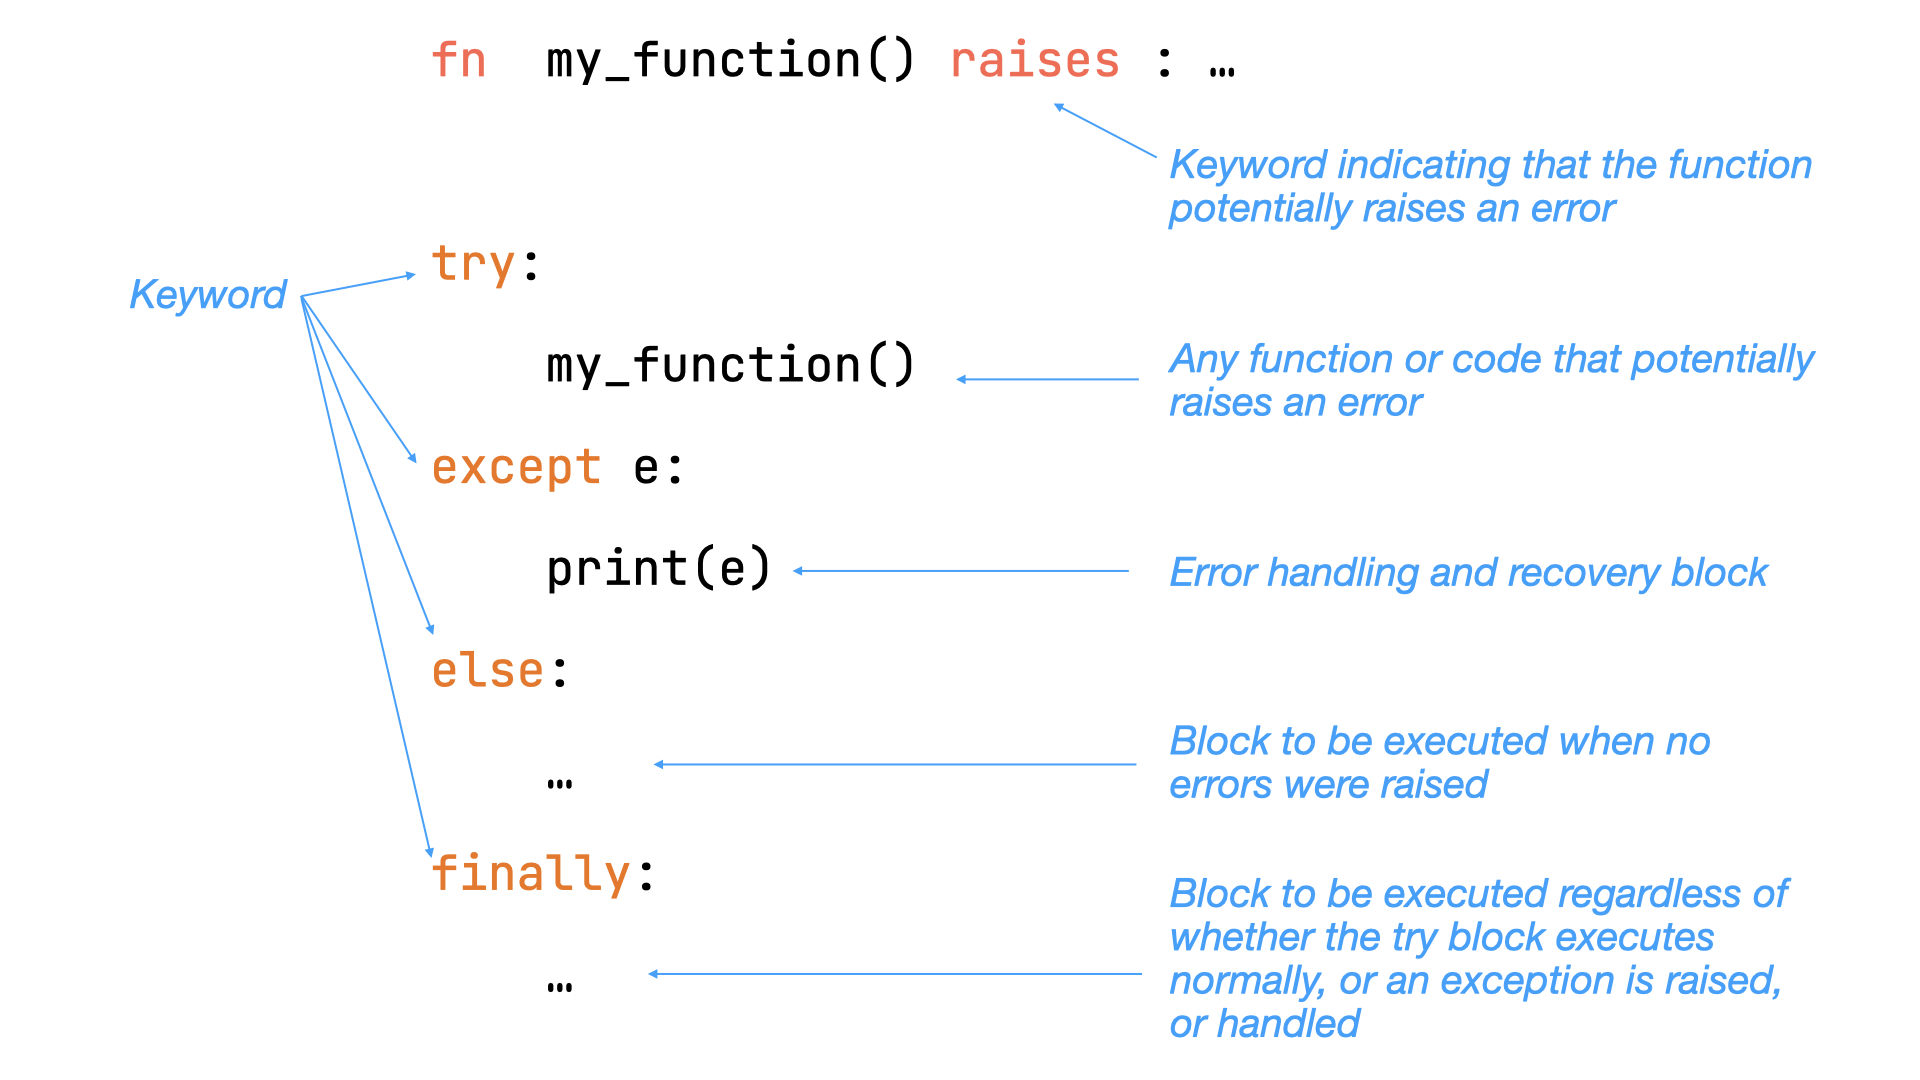
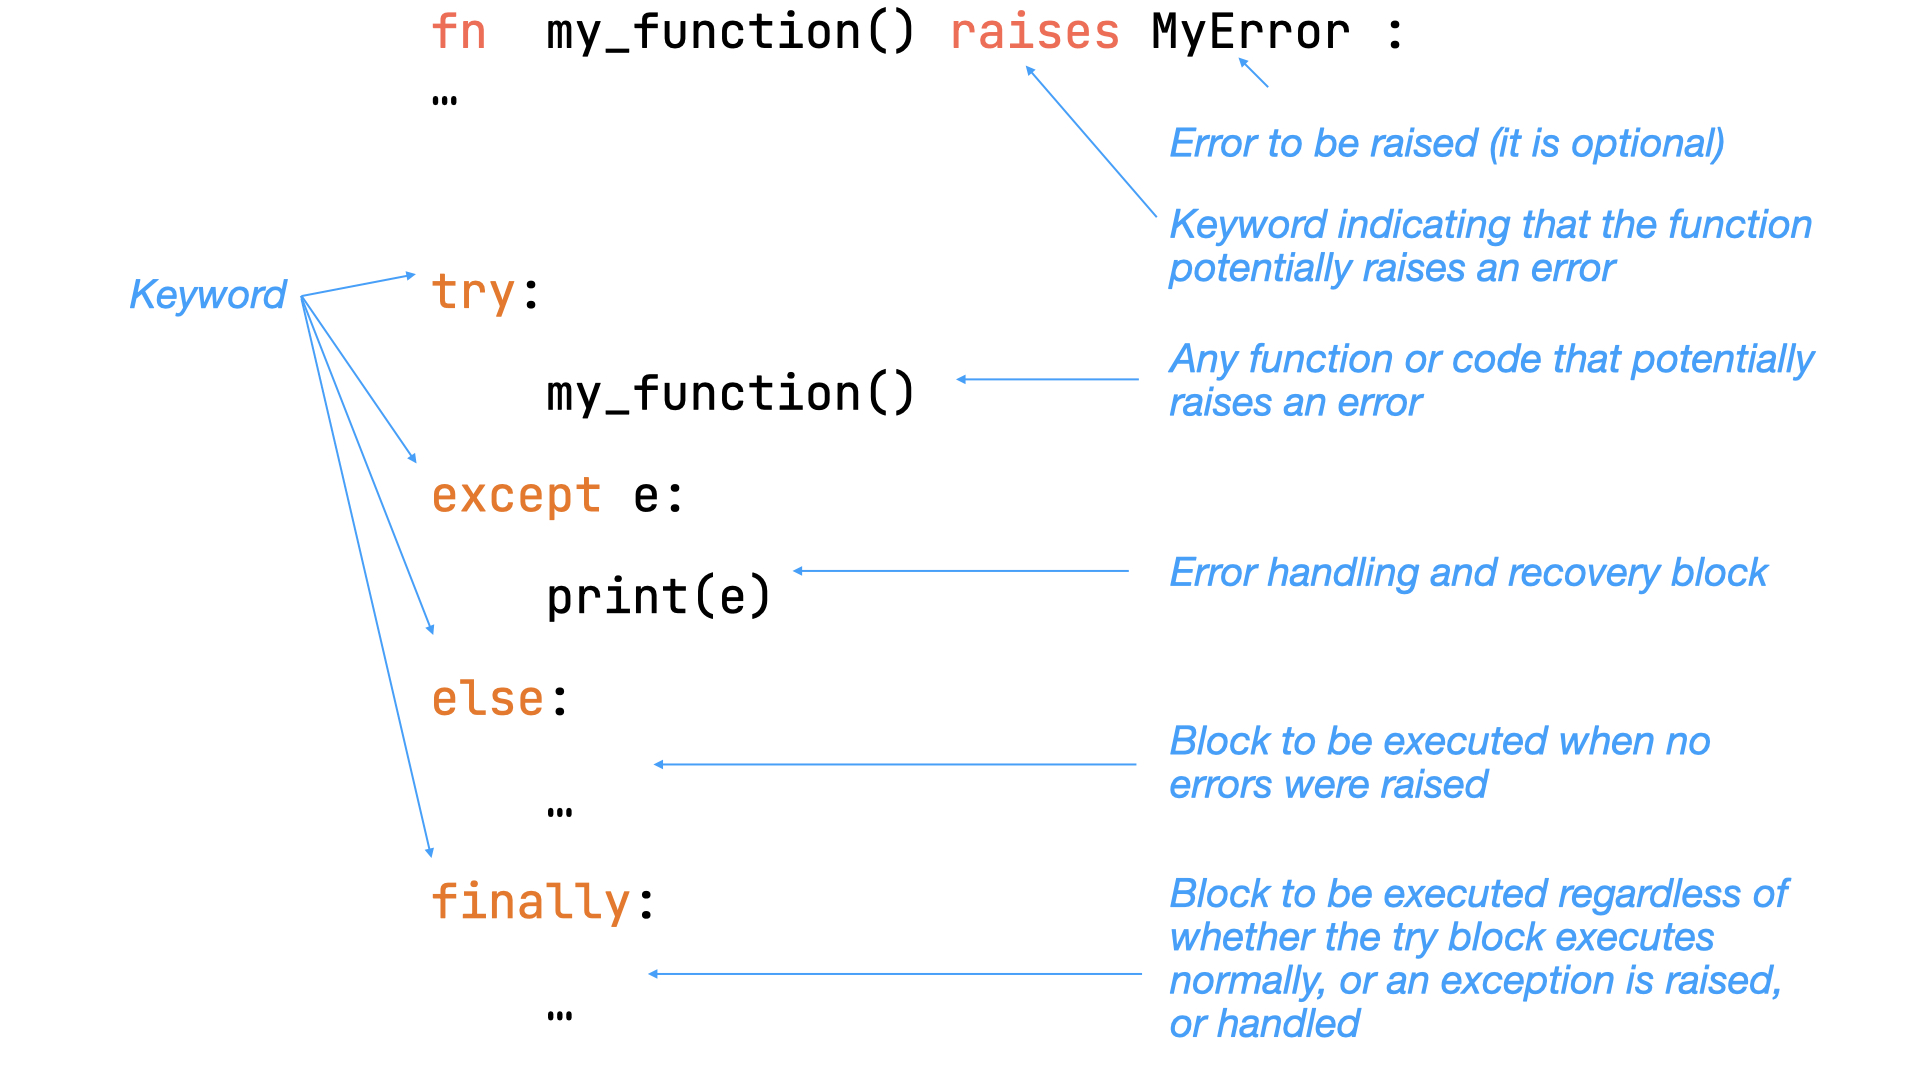
Custom errors, linear types

diff --git a/mojo/_ownership_and_lifecycle.html b/mojo/_ownership_and_lifecycle.html
@@ -2181,6 +2181,8 @@ pre.rouge .gs {
 </li>
 <li><a href="_ownership_and_lifecycle.html#_origin">13.10. Origin</a>
 </li>
+<li><a href="_ownership_and_lifecycle.html#_linear_types">13.11. Linear types</a>
+</li>
 </ul>
 </li>
 <li><a href="_memory_management_references_and_pointers.html">14. Memory management, references and pointers</a>
@@ -2572,7 +2574,92 @@ pre.rouge .gs {
 </div>
 </div>
 <div class="paragraph">
+<p>Here we are taking a parameter that is of type <code>MutOrigin</code>. This parameter is then used in <code>ref</code> which represents a reference. Together the <code>ref[o]</code> syntax indicates that we are passing a reference with origin <code>o</code>. Since <code>o</code> is of type <code>MutOrigin</code>, we are allowed to modify the value within the function. You will learn the <code>ref</code> syntax in a later chapter.</p>
+</div>
+<div class="paragraph">
 <p>Note: Mojo allows a short-hand syntax <code>mut</code> for mutable references in function arguments.</p>
+</div>
+<div class="sect3">
+<h4 id="_origin_of">13.10.1. <code>origin_of</code></h4>
+<div class="paragraph">
+<p>In some cases, we may want to explicitely get the origin of a value. This can be done using the <code>origin_of</code> function. For example, we may want to share a pointer to a value, and to ensure that the pointer always points to a valid value, we need to align the origin of the pointer with the origin of the value.</p>
+</div>
+<div class="listingblock">
+<div class="content">
+<pre class="rouge highlight"><code data-lang="mojo"><span class="k">struct</span> <span class="nc">B</span><span class="p">(</span><span class="n">ImplicitlyCopyable</span><span class="p">):</span>
+  <span class="k">fn</span> <span class="nf">__init__</span><span class="p">(</span><span class="k">out</span> <span class="k">self</span><span class="p">):</span>
+    <span class="k">pass</span>
+
+<span class="k">struct</span> <span class="n">A</span><span class="p">:</span>
+  <span class="k">var</span> <span class="n">value</span><span class="p">:</span> <span class="n">B</span>
+
+  <span class="k">fn</span> <span class="nf">__init__</span><span class="p">(</span><span class="k">out</span> <span class="k">self</span><span class="p">,</span> <span class="n">value</span><span class="p">:</span> <span class="n">B</span><span class="p">):</span>
+    <span class="k">self</span><span class="p">.</span><span class="n">value</span> <span class="o">=</span> <span class="n">value</span>
+
+  <span class="k">fn</span> <span class="nf">get_pointer</span><span class="p">(</span><span class="k">self</span><span class="p">)</span> <span class="o">-&gt;</span> <span class="n">Pointer</span><span class="p">[</span><span class="n">B</span><span class="p">,</span> <span class="nf">origin_of</span><span class="p">(</span><span class="k">self</span><span class="p">.</span><span class="n">value</span><span class="p">)]:</span>
+    <span class="k">return</span> <span class="nc">Pointer</span><span class="p">(</span><span class="n">to</span><span class="o">=</span><span class="k">self</span><span class="p">.</span><span class="n">value</span><span class="p">)</span></code></pre>
+</div>
+</div>
+<div class="paragraph">
+<p>Usage:</p>
+</div>
+<div class="listingblock">
+<div class="content">
+<pre class="rouge highlight"><code data-lang="mojo">    <span class="n">b</span><span class="p">:</span> <span class="n">B</span> <span class="o">=</span> <span class="nc">B</span><span class="p">()</span>
+    <span class="n">a</span><span class="p">:</span> <span class="n">A</span> <span class="o">=</span> <span class="nc">A</span><span class="p">(</span><span class="n">b</span><span class="p">)</span>
+    <span class="n">_</span> <span class="o">=</span> <span class="n">a</span><span class="p">.</span><span class="nf">get_pointer</span><span class="p">()</span></code></pre>
+</div>
+</div>
+<div class="paragraph">
+<p>In the above code listing, we have a struct <code>A</code> that holds a value of type <code>B</code>. In the <code>get_pointer</code> method, we are returning a pointer to the value held within the struct. In order to ensure that the pointer is valid as long as the value is valid, we are using the <code>origin_of</code> function to get the origin of the value and passing it to the <code>Pointer</code> type. This ensures that the pointer&#8217;s origin is aligned with the value&#8217;s origin. Without using the <code>origin_of</code>, the compiler cannot automatically infer the correct origin and will raise a compile-time error.</p>
+</div>
+</div>
+</div>
+<div class="sect2">
+<h3 id="_linear_types">13.11. Linear types</h3>
+<div class="paragraph">
+<p>In Mojo, when we define a struct and we do not provide a <code>__del__</code> method, then the compiler creates the destructor automatically for us. Most of the time this is the desired behavior. However, there are cases where we want to have more control over the lifecycle of a struct. For example, we may want to ensure that a struct is used only once and then destroyed. This is where linear types come into play.</p>
+</div>
+<div class="paragraph">
+<p>A linear type is a type that can be used only once. This means that once a value of a linear type is used, it cannot be used again. This is useful for ensuring that resources are not leaked and are properly released when they are no longer needed. This means a linear type cannot be copied or moved. The destruction of a linear type must be explicit and not just because it goes out-of-scope.</p>
+</div>
+<div class="paragraph">
+<p>In Mojo, copy and move are already explicitely opted-in. You can additionally place <code>@explicit_destroy</code> decorator to a struct to make it a linear type.</p>
+</div>
+<div class="listingblock">
+<div class="content">
+<pre class="rouge highlight"><code data-lang="mojo"><span class="nd">@explicit_destroy</span>
+<span class="k">struct</span> <span class="n">Linear</span><span class="p">:</span>
+  <span class="k">var</span> <span class="n">value</span><span class="p">:</span> <span class="n">Int</span>
+
+  <span class="k">fn</span> <span class="nf">__init__</span><span class="p">(</span><span class="k">out</span> <span class="k">self</span><span class="p">,</span> <span class="n">value</span><span class="p">:</span> <span class="n">Int</span><span class="p">):</span>
+    <span class="k">self</span><span class="p">.</span><span class="n">value</span> <span class="o">=</span> <span class="n">value</span>
+  
+  <span class="k">fn</span> <span class="nf">destroy_me</span><span class="p">(</span><span class="k">deinit</span> <span class="k">self</span><span class="p">):</span>
+    <span class="nf">print</span><span class="p">(</span><span class="sh">"</span><span class="s">Destroying Linear with value: </span><span class="sh">"</span><span class="p">,</span> <span class="k">self</span><span class="p">.</span><span class="n">value</span><span class="p">)</span>
+
+<span class="k">fn</span> <span class="nf">my_function</span><span class="p">(</span><span class="n">a</span><span class="p">:</span> <span class="n">Linear</span><span class="p">):</span>
+  <span class="k">pass</span></code></pre>
+</div>
+</div>
+<div class="paragraph">
+<p>Usage:</p>
+</div>
+<div class="listingblock">
+<div class="content">
+<pre class="rouge highlight"><code data-lang="mojo">    <span class="n">l</span><span class="p">:</span> <span class="n">Linear</span> <span class="o">=</span> <span class="nc">Linear</span><span class="p">(</span><span class="mi">10</span><span class="p">)</span>
+    <span class="nf">my_function</span><span class="p">(</span><span class="n">l</span><span class="p">)</span>
+    <span class="n">l</span><span class="o">^</span><span class="p">.</span><span class="nf">destroy_me</span><span class="p">()</span>  <span class="c1"># Commenting this out will result in a compile-time error</span></code></pre>
+</div>
+</div>
+<div class="paragraph">
+<p>In the above example, we have defined a struct <code>Linear</code> that is marked with the <code>@explicit_destroy</code> decorator. This indicates that the struct is a linear type. In the <code>main</code> function, we create an instance of the <code>Linear</code> struct and pass it to the <code>my_function</code>. After using the linear type, we explicitly call the <code>destroy_me</code> method to destroy the linear type. If we do not call the <code>destroy_me</code> method, the compiler will raise a compile-time error indicating that the linear type has not been destroyed. Since we do not implement <code>Moveable</code> or <code>ImplicitlyCopyable</code> traits for the <code>Linear</code> struct, the compiler will not allow any copy or move operations on it. This ensures that the linear type is used only once and is properly destroyed when no longer needed.</p>
+</div>
+<div class="paragraph">
+<p>Note that when we either let Mojo create the destructor automatically or we provide our own destructor using <code>__del__</code>, the struct is assumed automatically to implement <code>ImplicitlyDestructible</code> trait. By marking the struct with <code>@explicit_destroy</code>, we are indicating that the struct does not implement <code>ImplicitlyDestructible</code> trait, and hence the destruction must be explicit.</p>
+</div>
+<div class="paragraph">
+<p>Linear types are useful for managing resources that need to be used in a controlled manner, such as file handles, network connections, or other system resources. By using linear types, we can ensure that these resources are properly released when they are no longer needed, preventing resource leaks and ensuring the stability of our applications. It allows for compiler enforced resource management, reducing the chances of runtime errors related to resource handling.</p>
 </div>
 </div>
 </div>

diff --git a/mojo/_parameters_and_compile_time_programming.html b/mojo/_parameters_and_compile_time_programming.html
@@ -2183,6 +2183,8 @@ pre.rouge .gs {
 </li>
 <li><a href="_parameters_and_compile_time_programming.html#_custom_compile_time_checks">12.12. Custom compile-time checks</a>
 </li>
+<li><a href="_parameters_and_compile_time_programming.html#_parameterized_errors">12.13. Parameterized errors</a>
+</li>
 </ul>
 </li>
 <li><a href="_ownership_and_lifecycle.html">13. Ownership and lifecycle</a>
@@ -2684,6 +2686,47 @@ For example, <code>mojo -D add_it=True filename.mojo</code>.</p>
 </div>
 <div class="paragraph">
 <p>You can think of <code>constrained</code> as a more flexible version of <code>where</code> clauses, when the constraints cannot be expressed easily using <code>where</code> clauses.</p>
+</div>
+</div>
+<div class="sect2">
+<h3 id="_parameterized_errors">12.13. Parameterized errors</h3>
+<div class="paragraph">
+<p>Mojo allows us to define parameterized errors. This is useful when we want to abstract away the type of error that could be raised, and let the caller decide on what error type to use.</p>
+</div>
+<div class="listingblock">
+<div class="content">
+<pre class="rouge highlight"><code data-lang="mojo"><span class="k">trait</span> <span class="nc">ErrorTrait</span><span class="p">(</span><span class="n">Writable</span><span class="p">):</span>
+    <span class="k">fn</span> <span class="nf">__init__</span><span class="p">(</span><span class="k">out</span> <span class="k">self</span><span class="p">,</span> <span class="n">message</span><span class="p">:</span> <span class="n">String</span><span class="p">):</span> <span class="bp">...</span>
+
+<span class="k">struct</span> <span class="nc">MyError</span><span class="p">(</span><span class="n">ErrorTrait</span><span class="p">):</span> 
+    <span class="k">var</span> <span class="n">message</span><span class="p">:</span> <span class="n">String</span>
+
+    <span class="k">fn</span> <span class="nf">__init__</span><span class="p">(</span><span class="k">out</span> <span class="k">self</span><span class="p">,</span> <span class="n">message</span><span class="p">:</span> <span class="n">String</span><span class="p">):</span>
+        <span class="k">self</span><span class="p">.</span><span class="n">message</span> <span class="o">=</span> <span class="n">message</span>
+
+<span class="k">fn</span> <span class="n">raise_error</span><span class="p">[</span><span class="n">ErrorType</span><span class="p">:</span> <span class="n">ErrorTrait</span><span class="p">](</span><span class="n">cond</span><span class="p">:</span> <span class="n">Bool</span><span class="p">)</span> <span class="k">raises</span> <span class="n">ErrorType</span><span class="p">:</span>
+    <span class="k">if</span> <span class="n">cond</span><span class="p">:</span>
+        <span class="k">raise</span> <span class="nc">ErrorType</span><span class="p">(</span><span class="sh">"</span><span class="s">Provided condition is True</span><span class="sh">"</span><span class="p">)</span>
+    <span class="k">else</span><span class="p">:</span>
+        <span class="nf">print</span><span class="p">(</span><span class="sh">"</span><span class="s">No error</span><span class="sh">"</span><span class="p">)</span></code></pre>
+</div>
+</div>
+<div class="paragraph">
+<p>Usage:</p>
+</div>
+<div class="listingblock">
+<div class="content">
+<pre class="rouge highlight"><code data-lang="mojo">    <span class="k">try</span><span class="p">:</span>
+        <span class="n">raise_error</span><span class="p">[</span><span class="n">MyError</span><span class="p">](</span><span class="bp">True</span><span class="p">)</span>
+    <span class="k">except</span> <span class="n">e</span><span class="p">:</span>
+        <span class="nf">print</span><span class="p">(</span><span class="sh">"</span><span class="s">Error raised:</span><span class="sh">"</span><span class="p">,</span> <span class="n">e</span><span class="p">)</span></code></pre>
+</div>
+</div>
+<div class="paragraph">
+<p>In the above example, we defined a custom Trait that represents an error. It requires an <code><em>init</em></code> method that takes a <code>String</code> message. The function <code>raise_error</code> takes a parameter <code>ErrorType</code> that is constrained to be a type that implements the <code>ErrorTrait</code>. Inside the function, we raise an instance of the parameterized type as error. At the function call site, we specify which concrete error type to use, in this case a struct <code>MyError</code> that implements the <code>ErrorTrait</code>.</p>
+</div>
+<div class="paragraph">
+<p>We have basically allowed the caller to determine what error type to use, as long as it conforms to the <code>ErrorTrait</code>. This is quite useful when we want to write generic libraries that can be used in different contexts with different error types.</p>
 </div>
 </div>
 </div>

diff --git a/mojo/_error_handling.html b/mojo/_error_handling.html
@@ -2161,6 +2161,8 @@ pre.rouge .gs {
 </li>
 <li><a href="_error_handling.html#_else">10.3. Else</a>
 </li>
+<li><a href="_error_handling.html#_custom_errors">10.4. Custom Errors</a>
+</li>
 </ul>
 </li>
 <li><a href="_operators_and_special_methods.html">11. Operators and special methods</a>
@@ -2301,6 +2303,44 @@ block appears after <code>except</code>, but before <code>finally</code>. The <c
     <span class="k">else</span><span class="p">:</span>
         <span class="nf">print</span><span class="p">(</span><span class="sh">"</span><span class="s">No exception raised.</span><span class="sh">"</span><span class="p">)</span></code></pre>
 </div>
+</div>
+</div>
+<div class="sect2">
+<h3 id="_custom_errors">10.4. Custom Errors</h3>
+<div class="paragraph">
+<p>Quite often the standard <code>Error</code> type is not sufficient to represent the various error conditions that an application may encounter. In such cases, we can define our own custom error types.</p>
+</div>
+<div class="listingblock">
+<div class="content">
+<pre class="rouge highlight"><code data-lang="mojo"><span class="k">struct</span> <span class="nc">MyError</span><span class="p">(</span><span class="n">Writable</span><span class="p">):</span> 
+    <span class="k">var</span> <span class="n">message</span><span class="p">:</span> <span class="n">String</span>
+
+    <span class="k">fn</span> <span class="nf">__init__</span><span class="p">(</span><span class="k">out</span> <span class="k">self</span><span class="p">,</span> <span class="n">message</span><span class="p">:</span> <span class="n">String</span><span class="p">):</span>
+        <span class="k">self</span><span class="p">.</span><span class="n">message</span> <span class="o">=</span> <span class="n">message</span>
+
+<span class="k">fn</span> <span class="nf">raise_custom_error</span><span class="p">(</span><span class="n">cond</span><span class="p">:</span> <span class="n">Bool</span><span class="p">)</span> <span class="k">raises</span> <span class="n">MyError</span><span class="p">:</span>
+    <span class="k">if</span> <span class="n">cond</span><span class="p">:</span>
+        <span class="k">raise</span> <span class="nc">MyError</span><span class="p">(</span><span class="sh">"</span><span class="s">Provided condition is True</span><span class="sh">"</span><span class="p">)</span> 
+    <span class="k">else</span><span class="p">:</span>
+        <span class="nf">print</span><span class="p">(</span><span class="sh">"</span><span class="s">No error</span><span class="sh">"</span><span class="p">)</span></code></pre>
+</div>
+</div>
+<div class="paragraph">
+<p>Usage:</p>
+</div>
+<div class="listingblock">
+<div class="content">
+<pre class="rouge highlight"><code data-lang="mojo">    <span class="k">try</span><span class="p">:</span>
+        <span class="nf">raise_custom_error</span><span class="p">(</span><span class="bp">True</span><span class="p">)</span>
+    <span class="k">except</span> <span class="n">e</span><span class="p">:</span>
+        <span class="nf">print</span><span class="p">(</span><span class="sh">"</span><span class="s">Error raised:</span><span class="sh">"</span><span class="p">,</span> <span class="n">e</span><span class="p">)</span></code></pre>
+</div>
+</div>
+<div class="paragraph">
+<p>In the example, we define a custom error type <code>MyError</code>. The <code>raise_custom_error</code> function raises this custom error. In the <code>main</code> function, we handle the <code>MyError</code> in the <code>except</code> block. The type of the error captured in the <code>except</code> block is <code>MyError</code>.</p>
+</div>
+<div class="paragraph">
+<p>Note that the custom error type <code>MyError</code> implements the <code>Writable</code> trait, which allows us to directly use the value in <code>print</code> function. The <code>Writable</code> has a default implementation that can be used when we don&#8217;t need a custom string representation.</p>
 </div>
 </div>
 </div>

diff --git a/mojo/_revision_history.html b/mojo/_revision_history.html
@@ -2073,6 +2073,10 @@ p {
 </colgroup>
 <tbody>
 <tr>
+<td class="tableblock halign-left valign-top"><p class="tableblock">Draft Release: Custom errors, linear types</p></td>
+<td class="tableblock halign-left valign-top"><p class="tableblock">24 Jan., 2026</p></td>
+</tr>
+<tr>
 <td class="tableblock halign-left valign-top"><p class="tableblock">Draft Release: Metaprogramming, <code>comptime</code>, Origin</p></td>
 <td class="tableblock halign-left valign-top"><p class="tableblock">23 Jan., 2026</p></td>
 </tr>
